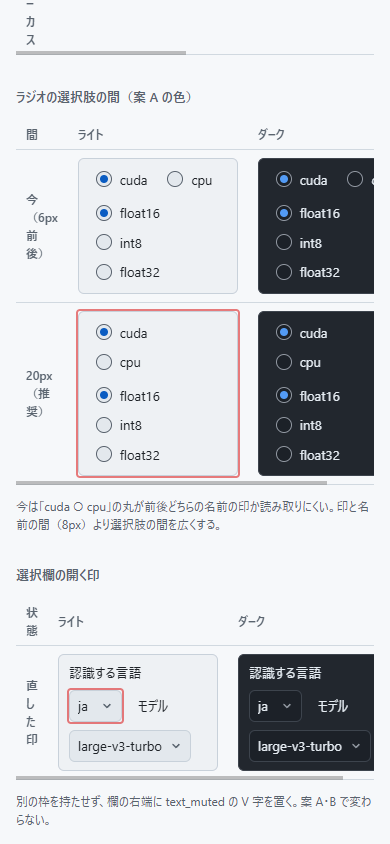
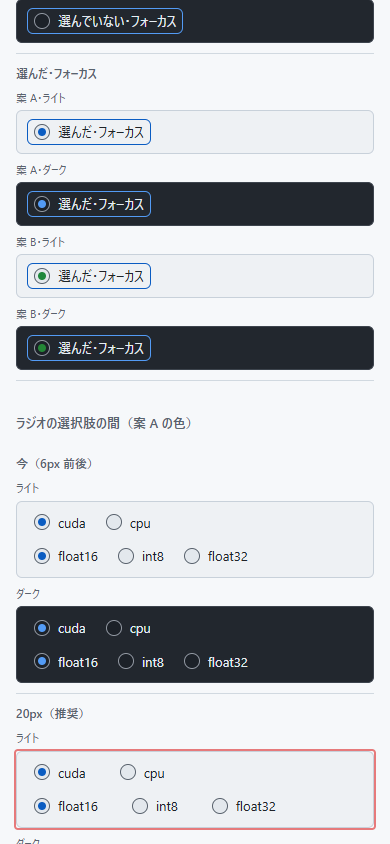
design: 印の部品のモックの状態の表を狭い幅でカードの並びにする

diff --git a/dev/mock/components/check-indicator/index.html b/dev/mock/components/check-indicator/index.html
@@ -42,13 +42,13 @@
       <section class="specimen" aria-labelledby="h-cb">
         <h2 id="h-cb">チェックボックス</h2>
         <div class="states-wrap"><table class="states"><caption class="sr-only">チェックボックスの状態ごとの見た目</caption><thead><tr><th scope="col">状態</th><th scope="col">案 A・ライト</th><th scope="col">案 A・ダーク</th><th scope="col">案 B・ライト</th><th scope="col">案 B・ダーク</th></tr></thead><tbody>
-<tr><th scope="row">オフ</th><td><div class="cell pal-cool theme-light ind-a"><label class="check" for="cb-1"><input type="checkbox" id="cb-1"> オフ</label></div></td><td><div class="cell pal-cool theme-dark ind-a"><label class="check" for="cb-2"><input type="checkbox" id="cb-2"> オフ</label></div></td><td><div class="cell pal-cool theme-light ind-b"><label class="check" for="cb-3"><input type="checkbox" id="cb-3"> オフ</label></div></td><td><div class="cell pal-cool theme-dark ind-b"><label class="check" for="cb-4"><input type="checkbox" id="cb-4"> オフ</label></div></td></tr>
-<tr><th scope="row">オン</th><td><div class="cell pal-cool theme-light ind-a"><label class="check" for="cb-5"><input type="checkbox" id="cb-5" checked> オン</label></div></td><td><div class="cell pal-cool theme-dark ind-a"><label class="check" for="cb-6"><input type="checkbox" id="cb-6" checked> オン</label></div></td><td><div class="cell pal-cool theme-light ind-b"><label class="check" for="cb-7"><input type="checkbox" id="cb-7" checked> オン</label></div></td><td><div class="cell pal-cool theme-dark ind-b"><label class="check" for="cb-8"><input type="checkbox" id="cb-8" checked> オン</label></div></td></tr>
-<tr><th scope="row">オフ・使えない</th><td><div class="cell pal-cool theme-light ind-a"><label class="check" for="cb-9"><input type="checkbox" id="cb-9" disabled> オフ・使えない</label></div></td><td><div class="cell pal-cool theme-dark ind-a"><label class="check" for="cb-10"><input type="checkbox" id="cb-10" disabled> オフ・使えない</label></div></td><td><div class="cell pal-cool theme-light ind-b"><label class="check" for="cb-11"><input type="checkbox" id="cb-11" disabled> オフ・使えない</label></div></td><td><div class="cell pal-cool theme-dark ind-b"><label class="check" for="cb-12"><input type="checkbox" id="cb-12" disabled> オフ・使えない</label></div></td></tr>
-<tr><th scope="row">オン・使えない</th><td><div class="cell pal-cool theme-light ind-a"><label class="check" for="cb-13"><input type="checkbox" id="cb-13" checked disabled> オン・使えない</label></div></td><td><div class="cell pal-cool theme-dark ind-a"><label class="check" for="cb-14"><input type="checkbox" id="cb-14" checked disabled> オン・使えない</label></div></td><td><div class="cell pal-cool theme-light ind-b"><label class="check" for="cb-15"><input type="checkbox" id="cb-15" checked disabled> オン・使えない</label></div></td><td><div class="cell pal-cool theme-dark ind-b"><label class="check" for="cb-16"><input type="checkbox" id="cb-16" checked disabled> オン・使えない</label></div></td></tr>
-<tr><th scope="row">オフ・フォーカス</th><td><div class="cell pal-cool theme-light ind-a"><label class="check is-focus" for="cb-17"><input type="checkbox" id="cb-17"> オフ・フォーカス</label></div></td><td><div class="cell pal-cool theme-dark ind-a"><label class="check is-focus" for="cb-18"><input type="checkbox" id="cb-18"> オフ・フォーカス</label></div></td><td><div class="cell pal-cool theme-light ind-b"><label class="check is-focus" for="cb-19"><input type="checkbox" id="cb-19"> オフ・フォーカス</label></div></td><td><div class="cell pal-cool theme-dark ind-b"><label class="check is-focus" for="cb-20"><input type="checkbox" id="cb-20"> オフ・フォーカス</label></div></td></tr>
-<tr><th scope="row">オン・フォーカス</th><td><div class="cell pal-cool theme-light ind-a"><label class="check is-focus" for="cb-21"><input type="checkbox" id="cb-21" checked> オン・フォーカス</label></div></td><td><div class="cell pal-cool theme-dark ind-a"><label class="check is-focus" for="cb-22"><input type="checkbox" id="cb-22" checked> オン・フォーカス</label></div></td><td><div class="cell pal-cool theme-light ind-b"><label class="check is-focus" for="cb-23"><input type="checkbox" id="cb-23" checked> オン・フォーカス</label></div></td><td><div class="cell pal-cool theme-dark ind-b"><label class="check is-focus" for="cb-24"><input type="checkbox" id="cb-24" checked> オン・フォーカス</label></div></td></tr>
-<tr><th scope="row">長い名前（オン）</th><td><div class="cell pal-cool theme-light ind-a"><label class="check" for="cb-25"><input type="checkbox" id="cb-25" checked> 前の区間を文脈に使う（長い名前でも印は縮めず、名前だけを折り返す）</label></div></td><td><div class="cell pal-cool theme-dark ind-a"><label class="check" for="cb-26"><input type="checkbox" id="cb-26" checked> 前の区間を文脈に使う（長い名前でも印は縮めず、名前だけを折り返す）</label></div></td><td><div class="cell pal-cool theme-light ind-b"><label class="check" for="cb-27"><input type="checkbox" id="cb-27" checked> 前の区間を文脈に使う（長い名前でも印は縮めず、名前だけを折り返す）</label></div></td><td><div class="cell pal-cool theme-dark ind-b"><label class="check" for="cb-28"><input type="checkbox" id="cb-28" checked> 前の区間を文脈に使う（長い名前でも印は縮めず、名前だけを折り返す）</label></div></td></tr>
+<tr><th scope="row">オフ</th><td data-label="案 A・ライト"><div class="cell pal-cool theme-light ind-a"><label class="check" for="cb-1"><input type="checkbox" id="cb-1"> オフ</label></div></td><td data-label="案 A・ダーク"><div class="cell pal-cool theme-dark ind-a"><label class="check" for="cb-2"><input type="checkbox" id="cb-2"> オフ</label></div></td><td data-label="案 B・ライト"><div class="cell pal-cool theme-light ind-b"><label class="check" for="cb-3"><input type="checkbox" id="cb-3"> オフ</label></div></td><td data-label="案 B・ダーク"><div class="cell pal-cool theme-dark ind-b"><label class="check" for="cb-4"><input type="checkbox" id="cb-4"> オフ</label></div></td></tr>
+<tr><th scope="row">オン</th><td data-label="案 A・ライト"><div class="cell pal-cool theme-light ind-a"><label class="check" for="cb-5"><input type="checkbox" id="cb-5" checked> オン</label></div></td><td data-label="案 A・ダーク"><div class="cell pal-cool theme-dark ind-a"><label class="check" for="cb-6"><input type="checkbox" id="cb-6" checked> オン</label></div></td><td data-label="案 B・ライト"><div class="cell pal-cool theme-light ind-b"><label class="check" for="cb-7"><input type="checkbox" id="cb-7" checked> オン</label></div></td><td data-label="案 B・ダーク"><div class="cell pal-cool theme-dark ind-b"><label class="check" for="cb-8"><input type="checkbox" id="cb-8" checked> オン</label></div></td></tr>
+<tr><th scope="row">オフ・使えない</th><td data-label="案 A・ライト"><div class="cell pal-cool theme-light ind-a"><label class="check" for="cb-9"><input type="checkbox" id="cb-9" disabled> オフ・使えない</label></div></td><td data-label="案 A・ダーク"><div class="cell pal-cool theme-dark ind-a"><label class="check" for="cb-10"><input type="checkbox" id="cb-10" disabled> オフ・使えない</label></div></td><td data-label="案 B・ライト"><div class="cell pal-cool theme-light ind-b"><label class="check" for="cb-11"><input type="checkbox" id="cb-11" disabled> オフ・使えない</label></div></td><td data-label="案 B・ダーク"><div class="cell pal-cool theme-dark ind-b"><label class="check" for="cb-12"><input type="checkbox" id="cb-12" disabled> オフ・使えない</label></div></td></tr>
+<tr><th scope="row">オン・使えない</th><td data-label="案 A・ライト"><div class="cell pal-cool theme-light ind-a"><label class="check" for="cb-13"><input type="checkbox" id="cb-13" checked disabled> オン・使えない</label></div></td><td data-label="案 A・ダーク"><div class="cell pal-cool theme-dark ind-a"><label class="check" for="cb-14"><input type="checkbox" id="cb-14" checked disabled> オン・使えない</label></div></td><td data-label="案 B・ライト"><div class="cell pal-cool theme-light ind-b"><label class="check" for="cb-15"><input type="checkbox" id="cb-15" checked disabled> オン・使えない</label></div></td><td data-label="案 B・ダーク"><div class="cell pal-cool theme-dark ind-b"><label class="check" for="cb-16"><input type="checkbox" id="cb-16" checked disabled> オン・使えない</label></div></td></tr>
+<tr><th scope="row">オフ・フォーカス</th><td data-label="案 A・ライト"><div class="cell pal-cool theme-light ind-a"><label class="check is-focus" for="cb-17"><input type="checkbox" id="cb-17"> オフ・フォーカス</label></div></td><td data-label="案 A・ダーク"><div class="cell pal-cool theme-dark ind-a"><label class="check is-focus" for="cb-18"><input type="checkbox" id="cb-18"> オフ・フォーカス</label></div></td><td data-label="案 B・ライト"><div class="cell pal-cool theme-light ind-b"><label class="check is-focus" for="cb-19"><input type="checkbox" id="cb-19"> オフ・フォーカス</label></div></td><td data-label="案 B・ダーク"><div class="cell pal-cool theme-dark ind-b"><label class="check is-focus" for="cb-20"><input type="checkbox" id="cb-20"> オフ・フォーカス</label></div></td></tr>
+<tr><th scope="row">オン・フォーカス</th><td data-label="案 A・ライト"><div class="cell pal-cool theme-light ind-a"><label class="check is-focus" for="cb-21"><input type="checkbox" id="cb-21" checked> オン・フォーカス</label></div></td><td data-label="案 A・ダーク"><div class="cell pal-cool theme-dark ind-a"><label class="check is-focus" for="cb-22"><input type="checkbox" id="cb-22" checked> オン・フォーカス</label></div></td><td data-label="案 B・ライト"><div class="cell pal-cool theme-light ind-b"><label class="check is-focus" for="cb-23"><input type="checkbox" id="cb-23" checked> オン・フォーカス</label></div></td><td data-label="案 B・ダーク"><div class="cell pal-cool theme-dark ind-b"><label class="check is-focus" for="cb-24"><input type="checkbox" id="cb-24" checked> オン・フォーカス</label></div></td></tr>
+<tr><th scope="row">長い名前（オン）</th><td data-label="案 A・ライト"><div class="cell pal-cool theme-light ind-a"><label class="check" for="cb-25"><input type="checkbox" id="cb-25" checked> 前の区間を文脈に使う（長い名前でも印は縮めず、名前だけを折り返す）</label></div></td><td data-label="案 A・ダーク"><div class="cell pal-cool theme-dark ind-a"><label class="check" for="cb-26"><input type="checkbox" id="cb-26" checked> 前の区間を文脈に使う（長い名前でも印は縮めず、名前だけを折り返す）</label></div></td><td data-label="案 B・ライト"><div class="cell pal-cool theme-light ind-b"><label class="check" for="cb-27"><input type="checkbox" id="cb-27" checked> 前の区間を文脈に使う（長い名前でも印は縮めず、名前だけを折り返す）</label></div></td><td data-label="案 B・ダーク"><div class="cell pal-cool theme-dark ind-b"><label class="check" for="cb-28"><input type="checkbox" id="cb-28" checked> 前の区間を文脈に使う（長い名前でも印は縮めず、名前だけを折り返す）</label></div></td></tr>
 </tbody></table></div>
         <p class="scene-note">フォーカスは印と名前の組を accent_fg の枠で囲む。かざすとオフの箱の線が accent_fg になる。</p>
       </section>
@@ -57,12 +57,12 @@
       <section class="specimen" aria-labelledby="h-rb">
         <h2 id="h-rb">ラジオボタン</h2>
         <div class="states-wrap"><table class="states"><caption class="sr-only">ラジオボタンの状態ごとの見た目</caption><thead><tr><th scope="col">状態</th><th scope="col">案 A・ライト</th><th scope="col">案 A・ダーク</th><th scope="col">案 B・ライト</th><th scope="col">案 B・ダーク</th></tr></thead><tbody>
-<tr><th scope="row">選んでいない</th><td><div class="cell pal-cool theme-light ind-a"><fieldset class="radios" aria-label="選んでいない"><label class="" for="rb-29"><input type="radio" id="rb-29" name="rb-29"> 選んでいない</label></fieldset></div></td><td><div class="cell pal-cool theme-dark ind-a"><fieldset class="radios" aria-label="選んでいない"><label class="" for="rb-30"><input type="radio" id="rb-30" name="rb-30"> 選んでいない</label></fieldset></div></td><td><div class="cell pal-cool theme-light ind-b"><fieldset class="radios" aria-label="選んでいない"><label class="" for="rb-31"><input type="radio" id="rb-31" name="rb-31"> 選んでいない</label></fieldset></div></td><td><div class="cell pal-cool theme-dark ind-b"><fieldset class="radios" aria-label="選んでいない"><label class="" for="rb-32"><input type="radio" id="rb-32" name="rb-32"> 選んでいない</label></fieldset></div></td></tr>
-<tr><th scope="row">選んだ</th><td><div class="cell pal-cool theme-light ind-a"><fieldset class="radios" aria-label="選んだ"><label class="" for="rb-33"><input type="radio" id="rb-33" name="rb-33" checked> 選んだ</label></fieldset></div></td><td><div class="cell pal-cool theme-dark ind-a"><fieldset class="radios" aria-label="選んだ"><label class="" for="rb-34"><input type="radio" id="rb-34" name="rb-34" checked> 選んだ</label></fieldset></div></td><td><div class="cell pal-cool theme-light ind-b"><fieldset class="radios" aria-label="選んだ"><label class="" for="rb-35"><input type="radio" id="rb-35" name="rb-35" checked> 選んだ</label></fieldset></div></td><td><div class="cell pal-cool theme-dark ind-b"><fieldset class="radios" aria-label="選んだ"><label class="" for="rb-36"><input type="radio" id="rb-36" name="rb-36" checked> 選んだ</label></fieldset></div></td></tr>
-<tr><th scope="row">選んでいない・使えない</th><td><div class="cell pal-cool theme-light ind-a"><fieldset class="radios" aria-label="選んでいない・使えない"><label class="" for="rb-37"><input type="radio" id="rb-37" name="rb-37" disabled> 選んでいない・使えない</label></fieldset></div></td><td><div class="cell pal-cool theme-dark ind-a"><fieldset class="radios" aria-label="選んでいない・使えない"><label class="" for="rb-38"><input type="radio" id="rb-38" name="rb-38" disabled> 選んでいない・使えない</label></fieldset></div></td><td><div class="cell pal-cool theme-light ind-b"><fieldset class="radios" aria-label="選んでいない・使えない"><label class="" for="rb-39"><input type="radio" id="rb-39" name="rb-39" disabled> 選んでいない・使えない</label></fieldset></div></td><td><div class="cell pal-cool theme-dark ind-b"><fieldset class="radios" aria-label="選んでいない・使えない"><label class="" for="rb-40"><input type="radio" id="rb-40" name="rb-40" disabled> 選んでいない・使えない</label></fieldset></div></td></tr>
-<tr><th scope="row">選んだ・使えない</th><td><div class="cell pal-cool theme-light ind-a"><fieldset class="radios" aria-label="選んだ・使えない"><label class="" for="rb-41"><input type="radio" id="rb-41" name="rb-41" checked disabled> 選んだ・使えない</label></fieldset></div></td><td><div class="cell pal-cool theme-dark ind-a"><fieldset class="radios" aria-label="選んだ・使えない"><label class="" for="rb-42"><input type="radio" id="rb-42" name="rb-42" checked disabled> 選んだ・使えない</label></fieldset></div></td><td><div class="cell pal-cool theme-light ind-b"><fieldset class="radios" aria-label="選んだ・使えない"><label class="" for="rb-43"><input type="radio" id="rb-43" name="rb-43" checked disabled> 選んだ・使えない</label></fieldset></div></td><td><div class="cell pal-cool theme-dark ind-b"><fieldset class="radios" aria-label="選んだ・使えない"><label class="" for="rb-44"><input type="radio" id="rb-44" name="rb-44" checked disabled> 選んだ・使えない</label></fieldset></div></td></tr>
-<tr><th scope="row">選んでいない・フォーカス</th><td><div class="cell pal-cool theme-light ind-a"><fieldset class="radios" aria-label="選んでいない・フォーカス"><label class="is-focus" for="rb-45"><input type="radio" id="rb-45" name="rb-45"> 選んでいない・フォーカス</label></fieldset></div></td><td><div class="cell pal-cool theme-dark ind-a"><fieldset class="radios" aria-label="選んでいない・フォーカス"><label class="is-focus" for="rb-46"><input type="radio" id="rb-46" name="rb-46"> 選んでいない・フォーカス</label></fieldset></div></td><td><div class="cell pal-cool theme-light ind-b"><fieldset class="radios" aria-label="選んでいない・フォーカス"><label class="is-focus" for="rb-47"><input type="radio" id="rb-47" name="rb-47"> 選んでいない・フォーカス</label></fieldset></div></td><td><div class="cell pal-cool theme-dark ind-b"><fieldset class="radios" aria-label="選んでいない・フォーカス"><label class="is-focus" for="rb-48"><input type="radio" id="rb-48" name="rb-48"> 選んでいない・フォーカス</label></fieldset></div></td></tr>
-<tr><th scope="row">選んだ・フォーカス</th><td><div class="cell pal-cool theme-light ind-a"><fieldset class="radios" aria-label="選んだ・フォーカス"><label class="is-focus" for="rb-49"><input type="radio" id="rb-49" name="rb-49" checked> 選んだ・フォーカス</label></fieldset></div></td><td><div class="cell pal-cool theme-dark ind-a"><fieldset class="radios" aria-label="選んだ・フォーカス"><label class="is-focus" for="rb-50"><input type="radio" id="rb-50" name="rb-50" checked> 選んだ・フォーカス</label></fieldset></div></td><td><div class="cell pal-cool theme-light ind-b"><fieldset class="radios" aria-label="選んだ・フォーカス"><label class="is-focus" for="rb-51"><input type="radio" id="rb-51" name="rb-51" checked> 選んだ・フォーカス</label></fieldset></div></td><td><div class="cell pal-cool theme-dark ind-b"><fieldset class="radios" aria-label="選んだ・フォーカス"><label class="is-focus" for="rb-52"><input type="radio" id="rb-52" name="rb-52" checked> 選んだ・フォーカス</label></fieldset></div></td></tr>
+<tr><th scope="row">選んでいない</th><td data-label="案 A・ライト"><div class="cell pal-cool theme-light ind-a"><fieldset class="radios" aria-label="選んでいない"><label class="" for="rb-29"><input type="radio" id="rb-29" name="rb-29"> 選んでいない</label></fieldset></div></td><td data-label="案 A・ダーク"><div class="cell pal-cool theme-dark ind-a"><fieldset class="radios" aria-label="選んでいない"><label class="" for="rb-30"><input type="radio" id="rb-30" name="rb-30"> 選んでいない</label></fieldset></div></td><td data-label="案 B・ライト"><div class="cell pal-cool theme-light ind-b"><fieldset class="radios" aria-label="選んでいない"><label class="" for="rb-31"><input type="radio" id="rb-31" name="rb-31"> 選んでいない</label></fieldset></div></td><td data-label="案 B・ダーク"><div class="cell pal-cool theme-dark ind-b"><fieldset class="radios" aria-label="選んでいない"><label class="" for="rb-32"><input type="radio" id="rb-32" name="rb-32"> 選んでいない</label></fieldset></div></td></tr>
+<tr><th scope="row">選んだ</th><td data-label="案 A・ライト"><div class="cell pal-cool theme-light ind-a"><fieldset class="radios" aria-label="選んだ"><label class="" for="rb-33"><input type="radio" id="rb-33" name="rb-33" checked> 選んだ</label></fieldset></div></td><td data-label="案 A・ダーク"><div class="cell pal-cool theme-dark ind-a"><fieldset class="radios" aria-label="選んだ"><label class="" for="rb-34"><input type="radio" id="rb-34" name="rb-34" checked> 選んだ</label></fieldset></div></td><td data-label="案 B・ライト"><div class="cell pal-cool theme-light ind-b"><fieldset class="radios" aria-label="選んだ"><label class="" for="rb-35"><input type="radio" id="rb-35" name="rb-35" checked> 選んだ</label></fieldset></div></td><td data-label="案 B・ダーク"><div class="cell pal-cool theme-dark ind-b"><fieldset class="radios" aria-label="選んだ"><label class="" for="rb-36"><input type="radio" id="rb-36" name="rb-36" checked> 選んだ</label></fieldset></div></td></tr>
+<tr><th scope="row">選んでいない・使えない</th><td data-label="案 A・ライト"><div class="cell pal-cool theme-light ind-a"><fieldset class="radios" aria-label="選んでいない・使えない"><label class="" for="rb-37"><input type="radio" id="rb-37" name="rb-37" disabled> 選んでいない・使えない</label></fieldset></div></td><td data-label="案 A・ダーク"><div class="cell pal-cool theme-dark ind-a"><fieldset class="radios" aria-label="選んでいない・使えない"><label class="" for="rb-38"><input type="radio" id="rb-38" name="rb-38" disabled> 選んでいない・使えない</label></fieldset></div></td><td data-label="案 B・ライト"><div class="cell pal-cool theme-light ind-b"><fieldset class="radios" aria-label="選んでいない・使えない"><label class="" for="rb-39"><input type="radio" id="rb-39" name="rb-39" disabled> 選んでいない・使えない</label></fieldset></div></td><td data-label="案 B・ダーク"><div class="cell pal-cool theme-dark ind-b"><fieldset class="radios" aria-label="選んでいない・使えない"><label class="" for="rb-40"><input type="radio" id="rb-40" name="rb-40" disabled> 選んでいない・使えない</label></fieldset></div></td></tr>
+<tr><th scope="row">選んだ・使えない</th><td data-label="案 A・ライト"><div class="cell pal-cool theme-light ind-a"><fieldset class="radios" aria-label="選んだ・使えない"><label class="" for="rb-41"><input type="radio" id="rb-41" name="rb-41" checked disabled> 選んだ・使えない</label></fieldset></div></td><td data-label="案 A・ダーク"><div class="cell pal-cool theme-dark ind-a"><fieldset class="radios" aria-label="選んだ・使えない"><label class="" for="rb-42"><input type="radio" id="rb-42" name="rb-42" checked disabled> 選んだ・使えない</label></fieldset></div></td><td data-label="案 B・ライト"><div class="cell pal-cool theme-light ind-b"><fieldset class="radios" aria-label="選んだ・使えない"><label class="" for="rb-43"><input type="radio" id="rb-43" name="rb-43" checked disabled> 選んだ・使えない</label></fieldset></div></td><td data-label="案 B・ダーク"><div class="cell pal-cool theme-dark ind-b"><fieldset class="radios" aria-label="選んだ・使えない"><label class="" for="rb-44"><input type="radio" id="rb-44" name="rb-44" checked disabled> 選んだ・使えない</label></fieldset></div></td></tr>
+<tr><th scope="row">選んでいない・フォーカス</th><td data-label="案 A・ライト"><div class="cell pal-cool theme-light ind-a"><fieldset class="radios" aria-label="選んでいない・フォーカス"><label class="is-focus" for="rb-45"><input type="radio" id="rb-45" name="rb-45"> 選んでいない・フォーカス</label></fieldset></div></td><td data-label="案 A・ダーク"><div class="cell pal-cool theme-dark ind-a"><fieldset class="radios" aria-label="選んでいない・フォーカス"><label class="is-focus" for="rb-46"><input type="radio" id="rb-46" name="rb-46"> 選んでいない・フォーカス</label></fieldset></div></td><td data-label="案 B・ライト"><div class="cell pal-cool theme-light ind-b"><fieldset class="radios" aria-label="選んでいない・フォーカス"><label class="is-focus" for="rb-47"><input type="radio" id="rb-47" name="rb-47"> 選んでいない・フォーカス</label></fieldset></div></td><td data-label="案 B・ダーク"><div class="cell pal-cool theme-dark ind-b"><fieldset class="radios" aria-label="選んでいない・フォーカス"><label class="is-focus" for="rb-48"><input type="radio" id="rb-48" name="rb-48"> 選んでいない・フォーカス</label></fieldset></div></td></tr>
+<tr><th scope="row">選んだ・フォーカス</th><td data-label="案 A・ライト"><div class="cell pal-cool theme-light ind-a"><fieldset class="radios" aria-label="選んだ・フォーカス"><label class="is-focus" for="rb-49"><input type="radio" id="rb-49" name="rb-49" checked> 選んだ・フォーカス</label></fieldset></div></td><td data-label="案 A・ダーク"><div class="cell pal-cool theme-dark ind-a"><fieldset class="radios" aria-label="選んだ・フォーカス"><label class="is-focus" for="rb-50"><input type="radio" id="rb-50" name="rb-50" checked> 選んだ・フォーカス</label></fieldset></div></td><td data-label="案 B・ライト"><div class="cell pal-cool theme-light ind-b"><fieldset class="radios" aria-label="選んだ・フォーカス"><label class="is-focus" for="rb-51"><input type="radio" id="rb-51" name="rb-51" checked> 選んだ・フォーカス</label></fieldset></div></td><td data-label="案 B・ダーク"><div class="cell pal-cool theme-dark ind-b"><fieldset class="radios" aria-label="選んだ・フォーカス"><label class="is-focus" for="rb-52"><input type="radio" id="rb-52" name="rb-52" checked> 選んだ・フォーカス</label></fieldset></div></td></tr>
 </tbody></table></div>
       </section>
 
@@ -70,8 +70,8 @@
       <section class="specimen" aria-labelledby="h-gap">
         <h2 id="h-gap">ラジオの選択肢の間（案 A の色）</h2>
         <div class="states-wrap"><table class="states"><caption class="sr-only">ラジオの選択肢の間の比較</caption><thead><tr><th scope="col">間</th><th scope="col">ライト</th><th scope="col">ダーク</th></tr></thead><tbody>
-<tr><th scope="row">今（6px 前後）</th><td><div class="cell pal-cool theme-light ind-a"><fieldset class="radios" style="gap: 4px 6px" aria-label="動かすデバイス（6px）"><label><input type="radio" name="sp-53" checked> cuda</label><label><input type="radio" name="sp-53"> cpu</label></fieldset><fieldset class="radios" style="gap: 4px 6px" aria-label="計算の精度（6px）"><label><input type="radio" name="sq-53" checked> float16</label><label><input type="radio" name="sq-53"> int8</label><label><input type="radio" name="sq-53"> float32</label></fieldset></div></td><td><div class="cell pal-cool theme-dark ind-a"><fieldset class="radios" style="gap: 4px 6px" aria-label="動かすデバイス（6px）"><label><input type="radio" name="sp-54" checked> cuda</label><label><input type="radio" name="sp-54"> cpu</label></fieldset><fieldset class="radios" style="gap: 4px 6px" aria-label="計算の精度（6px）"><label><input type="radio" name="sq-54" checked> float16</label><label><input type="radio" name="sq-54"> int8</label><label><input type="radio" name="sq-54"> float32</label></fieldset></div></td></tr>
-<tr><th scope="row">20px（推奨）</th><td><div class="cell pal-cool theme-light ind-a"><fieldset class="radios" style="gap: 4px 20px" aria-label="動かすデバイス（20px）"><label><input type="radio" name="sp-55" checked> cuda</label><label><input type="radio" name="sp-55"> cpu</label></fieldset><fieldset class="radios" style="gap: 4px 20px" aria-label="計算の精度（20px）"><label><input type="radio" name="sq-55" checked> float16</label><label><input type="radio" name="sq-55"> int8</label><label><input type="radio" name="sq-55"> float32</label></fieldset></div></td><td><div class="cell pal-cool theme-dark ind-a"><fieldset class="radios" style="gap: 4px 20px" aria-label="動かすデバイス（20px）"><label><input type="radio" name="sp-56" checked> cuda</label><label><input type="radio" name="sp-56"> cpu</label></fieldset><fieldset class="radios" style="gap: 4px 20px" aria-label="計算の精度（20px）"><label><input type="radio" name="sq-56" checked> float16</label><label><input type="radio" name="sq-56"> int8</label><label><input type="radio" name="sq-56"> float32</label></fieldset></div></td></tr>
+<tr><th scope="row">今（6px 前後）</th><td data-label="ライト"><div class="cell pal-cool theme-light ind-a"><fieldset class="radios" style="gap: 4px 6px" aria-label="動かすデバイス（6px）"><label><input type="radio" name="sp-53" checked> cuda</label><label><input type="radio" name="sp-53"> cpu</label></fieldset><fieldset class="radios" style="gap: 4px 6px" aria-label="計算の精度（6px）"><label><input type="radio" name="sq-53" checked> float16</label><label><input type="radio" name="sq-53"> int8</label><label><input type="radio" name="sq-53"> float32</label></fieldset></div></td><td data-label="ダーク"><div class="cell pal-cool theme-dark ind-a"><fieldset class="radios" style="gap: 4px 6px" aria-label="動かすデバイス（6px）"><label><input type="radio" name="sp-54" checked> cuda</label><label><input type="radio" name="sp-54"> cpu</label></fieldset><fieldset class="radios" style="gap: 4px 6px" aria-label="計算の精度（6px）"><label><input type="radio" name="sq-54" checked> float16</label><label><input type="radio" name="sq-54"> int8</label><label><input type="radio" name="sq-54"> float32</label></fieldset></div></td></tr>
+<tr><th scope="row">20px（推奨）</th><td data-label="ライト"><div class="cell pal-cool theme-light ind-a"><fieldset class="radios" style="gap: 4px 20px" aria-label="動かすデバイス（20px）"><label><input type="radio" name="sp-55" checked> cuda</label><label><input type="radio" name="sp-55"> cpu</label></fieldset><fieldset class="radios" style="gap: 4px 20px" aria-label="計算の精度（20px）"><label><input type="radio" name="sq-55" checked> float16</label><label><input type="radio" name="sq-55"> int8</label><label><input type="radio" name="sq-55"> float32</label></fieldset></div></td><td data-label="ダーク"><div class="cell pal-cool theme-dark ind-a"><fieldset class="radios" style="gap: 4px 20px" aria-label="動かすデバイス（20px）"><label><input type="radio" name="sp-56" checked> cuda</label><label><input type="radio" name="sp-56"> cpu</label></fieldset><fieldset class="radios" style="gap: 4px 20px" aria-label="計算の精度（20px）"><label><input type="radio" name="sq-56" checked> float16</label><label><input type="radio" name="sq-56"> int8</label><label><input type="radio" name="sq-56"> float32</label></fieldset></div></td></tr>
 </tbody></table></div>
         <p class="scene-note">今は「cuda ○ cpu」の丸が前後どちらの名前の印か読み取りにくい。印と名前の間（8px）より選択肢の間を広くする。</p>
       </section>
@@ -80,7 +80,7 @@
       <section class="specimen" aria-labelledby="h-sel">
         <h2 id="h-sel">選択欄の開く印</h2>
         <div class="states-wrap"><table class="states"><caption class="sr-only">選択欄の開く印</caption><thead><tr><th scope="col">状態</th><th scope="col">ライト</th><th scope="col">ダーク</th></tr></thead><tbody>
-<tr><th scope="row">直した印</th><td><div class="cell pal-cool theme-light"><label for="sel-57">認識する言語</label><span class="select"><select id="sel-57"><option>ja</option><option>en</option></select></span><label for="sel-57b">モデル</label><span class="select"><select id="sel-57b"><option>large-v3-turbo</option></select></span></div></td><td><div class="cell pal-cool theme-dark"><label for="sel-58">認識する言語</label><span class="select"><select id="sel-58"><option>ja</option><option>en</option></select></span><label for="sel-58b">モデル</label><span class="select"><select id="sel-58b"><option>large-v3-turbo</option></select></span></div></td></tr>
+<tr><th scope="row">直した印</th><td data-label="ライト"><div class="cell pal-cool theme-light"><label for="sel-57">認識する言語</label><span class="select"><select id="sel-57"><option>ja</option><option>en</option></select></span><label for="sel-57b">モデル</label><span class="select"><select id="sel-57b"><option>large-v3-turbo</option></select></span></div></td><td data-label="ダーク"><div class="cell pal-cool theme-dark"><label for="sel-58">認識する言語</label><span class="select"><select id="sel-58"><option>ja</option><option>en</option></select></span><label for="sel-58b">モデル</label><span class="select"><select id="sel-58b"><option>large-v3-turbo</option></select></span></div></td></tr>
 </tbody></table></div>
         <p class="scene-note">別の枠を持たせず、欄の右端に text_muted の V 字を置く。案 A・B で変わらない。</p>
       </section>

diff --git a/dev/mock/refs/159/assets/style.css b/dev/mock/refs/159/assets/style.css
@@ -132,6 +132,29 @@
   font-size: 13px;
   th { padding: 6px 10px; border-bottom: 1px solid var(--line); text-align: left; font-weight: 600; color: var(--text-2); font-size: 12px; }
   td { min-width: 180px; padding: 8px 10px; border-bottom: 1px solid var(--line); vertical-align: middle; }
+  th[scope="row"] { white-space: nowrap; }
+}
+
+/* 表が横に収まらない幅: 状態ごとに見出しを上に置き、明暗の組を見出し付きのカードで並べる */
+@media (max-width: 900px) {
+  /* 列の見出し: 各カードの見出しで代えるため、読み上げにだけ残す */
+  .states thead { position: absolute; width: 1px; height: 1px; overflow: hidden; clip-path: inset(50%); }
+  /* 表と行の本体: 表の並びをやめる */
+  .states, .states tbody { display: block; }
+  /* 状態 1 つ: 見出しの下にカードを 2 列で並べる */
+  .states tr { display: grid; grid-template-columns: repeat(2, minmax(0, 1fr)); gap: 8px; padding: 10px 0; border-bottom: 1px solid var(--line); }
+  /* 状態の見出し: 行の幅いっぱいに置く */
+  .states th[scope="row"] { grid-column: 1 / -1; padding: 0; border: 0; white-space: normal; }
+  /* カード: 最小の幅を外し、枠の中に収める */
+  .states td { display: block; min-width: 0; padding: 0; border: 0; }
+  /* カードの見出し: どの案・明暗の組かを出す */
+  .states td::before { content: attr(data-label); display: block; margin-bottom: 4px; font-size: 11px; color: var(--text-2); }
+}
+
+/* 狭い幅: カードを 1 列に積む */
+@media (max-width: 480px) {
+  /* 状態 1 つ: カードを縦に積む */
+  .states tr { grid-template-columns: minmax(0, 1fr); }
 }
 
 /* 状態の見本の表を横に流す枠 */
